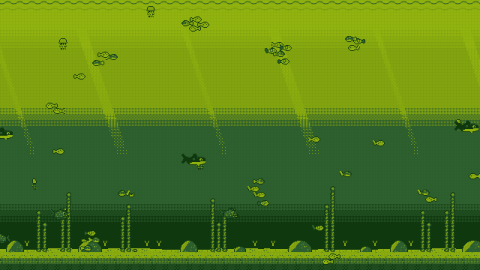
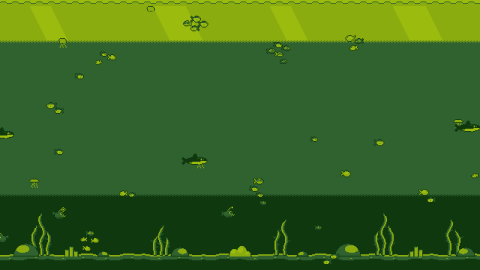
Game Boy theme: README, preview, description

diff --git a/contents/ui/code/themes.js b/contents/ui/code/themes.js
@@ -60,7 +60,7 @@ var THEMES = [
     {
         id: "gameboy",
         name: "Game Boy",
-        description: "The sea on a 1989 handheld: four LCD greens, 8x8 tiles and sprites, stepped scrolling water.",
+        description: "The sea on a 1989 handheld: four LCD greens, 8x8 tiles, calm flat water, kelp and well-drawn sprites.",
         usesDayNight: true,
         usesWaterColors: false
     },

diff --git a/contents/themes/gameboy/README.md b/contents/themes/gameboy/README.md
@@ -1,33 +1,67 @@
 # Game Boy theme
 
-The sea as the original 1989 Game Boy (DMG) would draw it. Everything is generated by
-`tools/gen-gameboy-theme.js` (run `node tools/gen-gameboy-theme.js`; `--check` is part of `npm test`).
+The sea as the original 1989 Game Boy (DMG) would draw it, composed the way real DMG games do (Link's
+Awakening, Pokemon Gold/Crystal, Wario Land): big FLAT tone areas, clean one-tile transitions and
+well-drawn sprites, never noise fields. It is meant to be looked at for hours, so it is calm: the
+background hardly moves and the creatures glide.
+
+Everything is generated by `tools/gen-gameboy-theme.js` (run `node tools/gen-gameboy-theme.js`; `--check`
+is part of `npm test`; `--sheet out.png 8` writes a contact sheet of all sprites).
 
 ## Emulated constraints
 
 | DMG hardware | here |
 |---|---|
-| 4 LCD shades | exactly four colours in every texture: `#0f380f #306230 #8bac0f #9bbc0f`, the pea-green set used by DMG emulators (darkest ink to lightest "off" pixel). Nothing is blended or computed at run time. The one exception is the optional LCD-glass overlay (below). |
-| 8x8 tiles | all art is cut from 8x8 tiles. The generator counts unique tiles (flips folded) and fails the build above DMG limits: OBJ <= 256, BG <= 256, both <= 384 (VRAM). Currently OBJ 96, BG 157. |
-| OBJ sprites, 8x8 / 8x16 | metasprites of whole tiles: fish 16x8 (2 tiles), fry 8x8, newborn larva 8x8, angler 24x16, orca 32x16, jelly 16x16 and 8x16, worm 8x8, bubbles and sparkle 8x8, lure 8x8. |
-| OBJ palettes: 3 shades + transparent | every sprite uses at most three shades (asserted at build and by `tests/gameboy-theme.test.js`). The five fish "colours" are shade patterns (dark with pale belly, two bars, spots, flank stripe, dithered back), not hues. |
-| BG tile map | the water is dithered 8x8 tile rows (solid shades and 25/50/75 % ordered-dither ramps), the seabed a 64x14-tile map with sand, boulders, kelp and coral. |
+| 4 LCD shades | exactly four colours in every texture: `#0f380f #306230 #8bac0f #9bbc0f`, the pea-green set used by DMG emulators (darkest ink to lightest "off" pixel). Nothing is blended or computed at run time. |
+| 8x8 tiles | all art is cut from 8x8 tiles. The generator counts unique tiles (flips folded) and fails the build above DMG limits: OBJ <= 256, BG <= 256, both <= 384 (VRAM). Currently OBJ 151, BG 187. |
+| OBJ metasprites | whole tiles: fish 16x8 (S/M) and 16x16 (L), fry and larva 8x8, angler 24x16, orca 40x16, jelly 16x16 and 8x16, worm 8x8, bubbles 8x8, lure and sparkle 8x8. |
+| OBJ palettes: 3 shades + transparent | every sprite uses at most three shades (asserted at build and by the tests). Fish "colours" are shade patterns (plain, bars, dorsal stripe, flank stripe, spots), not hues. |
 | Palette registers (BGP/OBP) | the same art is stored once per register mapping as a small atlas: BG day / dusk / night fades (`bg-*.png`), OBJ normal / dimmed / inverted (`obj-n0/n1/i0.png`). Changing palette = picking another texture. |
-| Scanline scroll (SCX per line) | the two water-surface rows scroll in opposite directions in whole-pixel steps from one 8 Hz tick; light rays and kelp frames use the same tick. |
-| Integer-scaled LCD | the scene is a virtual screen of about 360 lines (640x360 on a 16:9 screen) scaled by a whole number of physical pixels (3x at 1080p, 2x at 720p, 6x at 4K); sprites sit on whole virtual pixels like OAM coordinates. |
-| LCD pixel grid | one static tiled texture of faint dark lines between virtual pixels, only when the scale is a whole number of logical pixels. Set `lcdGrid: false` in `Scene.qml` to drop it. |
+| Integer-scaled LCD | the scene is a virtual screen of about 360 rows (640x360 on a 16:9 screen) scaled by a whole number of physical pixels (3x at 1080p, 2x at 720p, 6x at 4K); one art texel scale for every sprite. |
 
-Deliberately not emulated: the 10-sprites-per-scanline limit (it would flicker) and the 40-sprite OAM cap.
+Deliberately not emulated: the 10-sprites-per-scanline limit and the 40-sprite OAM cap (they would flicker), the LCD pixel grid (a faint grid over the whole screen reads as noise).
+
+## Composition (what the owner asked for)
+
+* **Water**: three flat zones. A lit top layer (shade 2, 15 % of the height) with a surface line of foam and a few wide, flat, lightest-shade light shafts; open water (shade 1, 57 %); deep water (shade 0). Each tone change is one 3-row dither strip, static. The lightest shade is only foam, shafts and creature highlights (4 % of the screen).
+* **Seabed**: a sand strip 24 rows high (6.7 %), boulders in three sizes, an organ-pipe coral and a brain-coral cluster, and kelp in short clumps with gaps (tallest 56 rows = 15.6 % of the height). Kelp fronds are ribbons whose centre line sways between two frames (clean, 0.25 Hz, clumps out of phase).
+* **Light**: from the top left everywhere (rock and coral highlights, back of fish lighter than the belly, sheen on the orca's back). Outlines are one texel of the darkest shade.
+* **Day / night**: BGP fades chosen from `daylight` (day, dusk drops the lightest shade, night darkens the sea and keeps a faint lit layer); sprites keep their palette, so creatures glow against dark water. `usesWaterColors` is false.
+
+## Sprites (1080p, 3 px per texel)
+
+| creature | art box (texels) | on screen |
+|---|---|---|
+| fish M (default) / S / L | 12x8 / 10x7 / 14x9 | 36x24 / 30x21 / 42x27 px |
+| fry, larva | 8x5, 5x3 | 24x15, 15x9 px |
+| angler (stalk + glowing bulb) | 19x14 | 57x42 px (1.5 x fish) |
+| orca (white patch, tall fin) | 34x16 | 102x48 px (~3 x fish) |
+| jelly (dome, frill, 3 tentacles) | 12x12 | 36x36 px |
+| worm | 4x4 | 12x12 px |
+| bubbles | 3x3, 4x4 | 9, 12 px |
+
+Size sliders pick the nearest class (fish) or a whole 2x of the class (extreme settings only, never a fractional scale); below the default the big predators keep their drawn size.
 
 ## Behaviour
 
-* **Day / night**: BGP fades (day, dusk/dawn, night) chosen from `daylight`; sprites keep their palette, so at night creatures glow against dark water, like a DMG night scene. `usesWaterColors` is false: the user's water colours do not apply.
-* **Stress** (fish only): above 0.25 each fish flips to the inverted OBJ palette once the stress level passes its own fixed threshold, so the school turns gradually. Inverted fish tremble by +-1 virtual pixel (+-2 in alarm). Above 1.2 every fish flashes: half the school is inverted while the other half is normal, swapping every 400 ms (1.25 Hz, below the 2 Hz limit), so the screen as a whole never blinks.
-* **Babies** are born as a 5x3 larva sprite that grows to fry size, with a two-frame sparkle tile above them while they spiral out.
-* **Animation** is 3 drawn frames played 0-1-2-1 (tail beat, bell pulse, worm wiggle); a dying worm drops to the dimmed OBJ palette. The angler lure flickers through three lure tiles.
+* **Motion**: the simulation ticks at 25 Hz; each sprite glides linearly between ticks and is then rounded to a whole *screen* pixel, so art stays crisp and moves at display rate (no snapping to the texel grid). One `FrameAnimation` drives all sprites and runs only while a glide is in progress and the scene is not paused.
+* **Stress** (fish only): from 0.25 a growing share of the school swaps to the inverted OBJ palette (each fish has its own fixed threshold) and trembles by +-1 screen pixel. Above 1.2 the affected fish swap slowly (one palette per 600 ms, a full cycle is 0.83 Hz) with half the school in each phase, so nothing blinks as a whole.
+* **Pacing**: tail beat ~0.5-1 Hz, jelly pulse ~3 s, orca slower still, angler lure glow ~5 s; everything is 2-3 drawn frames.
+* **Babies** are born as a 5x3 larva that grows through fry to adult size, with a slow two-frame sparkle above them while they spiral out.
+
+## Measured (tests/gameboy-measure.js, run by `npm test` when qml6 is available)
+
+* A calm backdrop: empty sea, 10 s of real time: at most 0.8 % of the screen differs between any two frames 0.1-10 s apart (limit 2 %), fastest texel 0.33 Hz (limit 2 Hz).
+* B smooth motion: constant-velocity fish deviate <= 0.65 px from a straight line, whole-pixel positions.
+* C eye comfort: lightest shade 4 % of the day screenshot, no stipple window above 20 % isolated texels in the empty sea, progressive stress, +-1 px tremble, alarm swap <= 1 Hz.
+* D proportions, seabed band and kelp height as in the table above.
+
+## What changed from the first version
+
+The first version scrolled the water surface and the light rays on an 8 Hz tick, drew the sea as three hard bands joined by 8-px dither ramps with dithered diagonal shafts, snapped sprites to the texel grid at 25 Hz, flipped palette regions on stress and used tall thin kelp, 16x8 fish and fragmentary jellies; it also overlaid an LCD-glass grid. All of that is gone.
 
 ## Files
 
-`Scene.qml` (virtual screen + LCD glass), `Ambient.qml` (tile-map background), `GBSprite.qml` / `EntityLayer.qml` (pooled delegates, shared atlas textures), `sync.js` (simulation -> sprites), `theme.js` (constants), `atlas.js` (generated rectangles), `img/` (generated atlases), `preview.png`.
+`Scene.qml` (virtual screen + sprite layer), `Ambient.qml` (tile-map background), `GBSprite.qml` / `EntityLayer.qml` (pooled delegates, shared atlas textures, frame loop), `sync.js` (simulation -> sprites, glide), `theme.js` (constants, size classes), `atlas.js` (generated rectangles and layout), `img/` (generated atlases), `preview.png`.
 
-Cost: about 40 static background items, one 8 Hz timer (stopped when `paused`), one `Image` per entity (plus a second only for the lure and sparkle), no animators, layers or shaders.
+Cost: about 30 static background items, one 500 ms timer (kelp), one `Image` per entity (plus a second only for the lure and sparkle), one frame loop over plain JS state; no layers, shaders or per-entity animations. Everything stops when `paused`.
